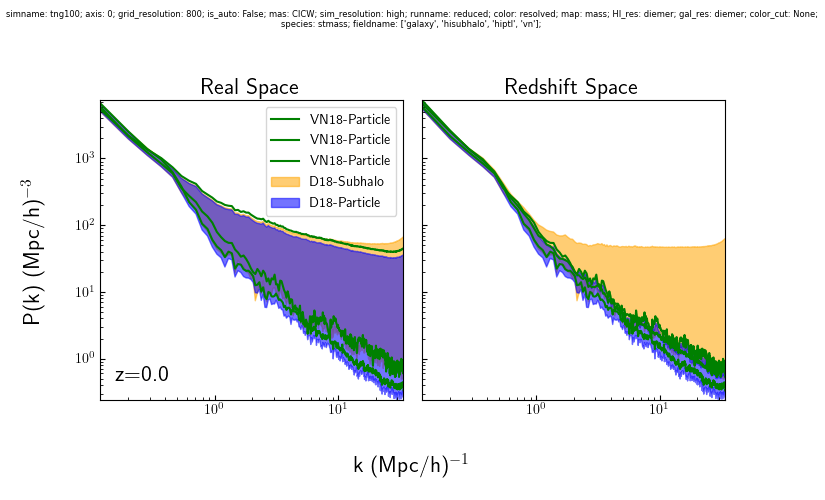
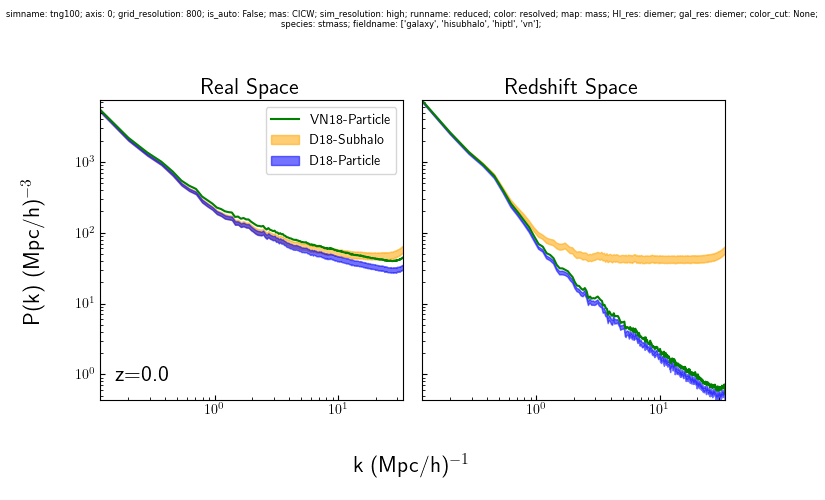
fixed some issues

diff --git a/hc_lib/plots/fig_lib.py b/hc_lib/plots/fig_lib.py
@@ -256,7 +256,7 @@ class FigureLibrary():
                     
                     # TEMPORARY SLICE PLOT
                 if plot_scatter and pslice.getProp('fieldname') == 'galaxy':
-                    f = il.groupcat.loadSubhalos('/lustre/cosinga/L75n1820TNG/output/', 99, fields=['SubhaloPos', 'SubhaloMassType'])
+                    f = il.groupcat.loadSubhalos('/lustre/cosinga/L75n1820TNG/output/', 99, fields=['SubhaloPos', 'SubhaloMassType', 'SubhaloVel'])
                     mid = pslice.props['box']/2
                     mnm = mid - pslice.props['box'] * 0.1
                     mxm = mid + pslice.props['box'] * 0.1
@@ -271,29 +271,31 @@ class FigureLibrary():
                     sizes = np.log10(np.sum(mass[mask, :], axis=1))
                     colors = np.zeros((sizes.shape[0], 4))
                     sm = mpl.cm.ScalarMappable(norm = norm, cmap = cmap)
-                    for s in sizes:
+                    for s in range(len(sizes)):
                         colors[s, :] = sm.to_rgba(sizes[s])
                     sizes = sizes/np.max(sizes) * 5
                     print(x.shape)
                     plt.scatter(x,y, s=sizes, c=colors)
                 elif plot_scatter and pslice.getProp('fieldname') == 'hisubhalo':
-                    f = il.groupcat.loadSubhalos('/lustre/cosinga/L75n1820TNG/output/', 99, fields=['SubhaloPos'])
+                    f = il.groupcat.loadSubhalos('/lustre/cosinga/L75n1820TNG/output/', 99, fields=['SubhaloPos','SubhaloVel'])
                     h = hp.File('/lustre/cosinga/L75n1820TNG/postprocessing/hih2/hih2_galaxy_099.hdf5', 'r')
                     ids = h['id_subhalo'][:]
-                    ids.astype(np.int32)
-                    pos = f['SubhaloPos'][ids, :]
+                    ids = ids.astype(np.int32)
+                    pos = f['SubhaloPos'][ids]
+                    vel = f['SubhaloVel'][ids]
+                    
                     mid = pslice.props['box']/2
                     mnm = mid - pslice.props['box'] * 0.1
                     mxm = mid + pslice.props['box'] * 0.1                    
                     pos_mask = (pos[:,1]> mnm) & (pos[:,1]<mxm)
                     x = pos[pos_mask, 2]
                     y = pos[pos_mask, 0]
-
+                    
                     mass = h[pslice.props['model']][pos_mask]
                     sizes = np.log10(mass)
                     colors = np.zeros((sizes.shape[0], 4))
                     sm = mpl.cm.ScalarMappable(norm = norm, cmap = cmap)
-                    for s in sizes:
+                    for s in range(len(sizes)):
                         colors[s,:] = sm.to_rgba(sizes[s])
                     sizes = sizes/np.max(sizes) * 5
                     print(x.shape)

diff --git a/hc_lib/plots/results.py b/hc_lib/plots/results.py
@@ -62,9 +62,15 @@ class ResultLibrary():
 
     def _addRunnameProp(self, obj, runname):
         def _addRunnameLoop(results, self_results):
+            for_results = []
             for r in results:
                 r.addProp('runname', runname)
-            self_results.extend(results)
+                if r.props['is_auto']:
+                    for_results.append(r)
+                else:
+                    if r.props['space'][0] == r.props['space'][1]:
+                        for_results.append(r)
+            self_results.extend(for_results)
             return
         
         pks = obj.getPks()
@@ -147,10 +153,12 @@ class ResultLibrary():
             has_row_order = True
         else:
             rowLabels = []
+            has_row_order = False
         if not colLabels:
             has_col_order = True
         else:
             colLabels = []
+            has_col_order = False
 
         forFig = []
         result = self._getResultType(result_type)

diff --git a/hc_lib/plots/figures/HIXgalaxy.py b/hc_lib/plots/figures/HIXgalaxy.py
@@ -11,7 +11,6 @@ def redshiftR_spaceC_fieldname(rlib, iprops, rmprops, savePath = '', panel_lengt
     panel_prop = 'fieldname'
     
     print('making %sR_%sC_%s figure...'%(row_prop, column_prop, panel_prop))
-
     figArr, rowlabels, collabels = rlib.organizeCrossFigure(iprops, row_prop, column_prop, 'pk', 1, rmprops, check = [0,0])   
     linelabels = {'vn':'VN18-Particle', 'hiptl':'hiptl', 'hisubhalo':'hisubhalo'}
     colors = {'vn':'green'}
@@ -19,7 +18,8 @@ def redshiftR_spaceC_fieldname(rlib, iprops, rmprops, savePath = '', panel_lengt
 
     flib.createFig(panel_length, panel_bt, border, border)
     flib.plotLines(panel_prop, linelabels, colors)
-
+    for r in figArr[0,0]:
+        print(r.props)
 #     # combining the lines
     flib.fillLines('hisubhalo', label='D18-Subhalo', color='orange')
     flib.fillLines('hiptl', label='D18-Particle', color='blue')
